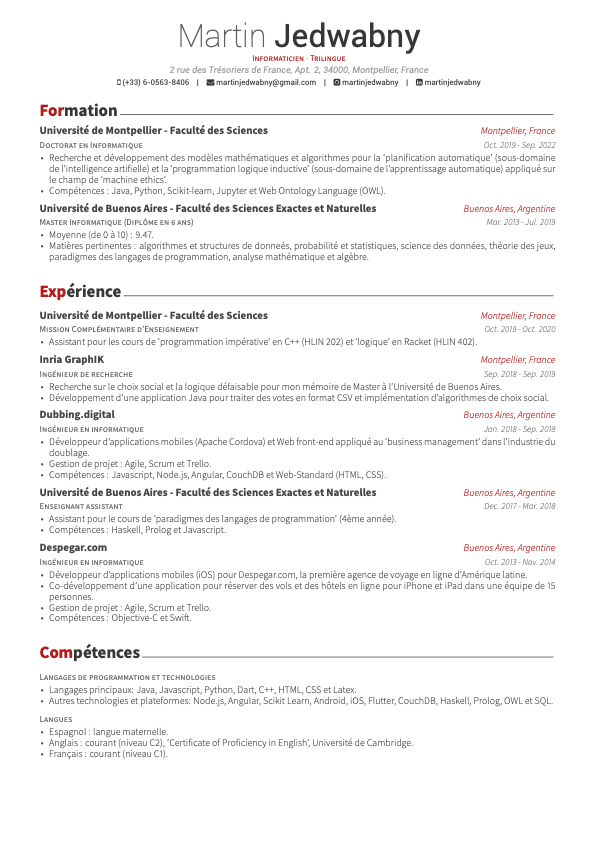
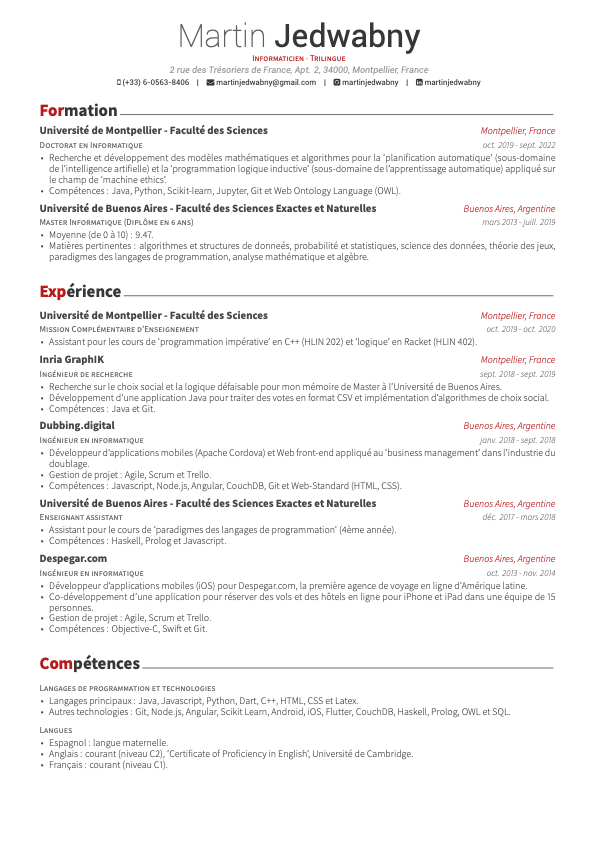
French v3

diff --git a/french/src/cv/work.tex b/french/src/cv/work.tex
@@ -13,7 +13,7 @@
 {Mission Complémentaire d'Enseignement} % Job title
 {Université de Montpellier - Faculté des Sciences} % Organization
 {Montpellier, France} % Location
-{Oct. 2019 - Oct. 2020} % Date(s)
+{oct. 2019 - oct. 2020} % Date(s)
 {
   \begin{cvitems} % Description(s) of tasks/responsibilities
     \item Assistant pour les cours de `programmation imp\'erative' en C++ (HLIN 202) et `logique' en Racket (HLIN 402).
@@ -25,11 +25,12 @@
 {Ingénieur de recherche}
 {Inria GraphIK}
 {Montpellier, France}
-{Sep. 2018 - Sep. 2019}
+{sept. 2018 - sept. 2019}
 {
 \begin{cvitems}
 \item Recherche sur le choix social et la logique défaisable pour mon mémoire de Master à l'Université de Buenos Aires.
 \item Développement d'une application Java pour traiter des votes en format CSV et implémentation d'algorithmes de choix social.
+\item Compétences : Java et Git.
 % \item Directors : Madalina Croitoru and Pierre Bisquert.
 \end{cvitems}
 }  
@@ -39,12 +40,12 @@
 {Ingénieur en informatique}
 {Dubbing.digital}
 {Buenos Aires, Argentine}
-{Jan. 2018 - Sep. 2018}
+{janv. 2018 - sept. 2018}
 {
 \begin{cvitems}
 \item Développeur d'applications mobiles (Apache Cordova) et Web front-end appliqué au `business management' dans l'industrie du doublage. 
 \item Gestion de projet : Agile, Scrum et Trello.
-\item Compétences : Javascript, Node.js, Angular, CouchDB et Web-Standard (HTML, CSS).
+\item Compétences : Javascript, Node.js, Angular, CouchDB, Git et Web-Standard (HTML, CSS).
 \end{cvitems}
 } 
 %---------------------------------------------------------
@@ -53,7 +54,7 @@
 {Enseignant assistant} % Job title
 {Université de Buenos Aires - Faculté des Sciences Exactes et Naturelles} % Organization
 {Buenos Aires, Argentine} % Location
-{Dec. 2017 - Mar. 2018} % Date(s)
+{déc. 2017 - mars 2018} % Date(s)
 {
   \begin{cvitems} % Description(s) of tasks/responsibilities
     \item Assistant pour le cours de `paradigmes des langages de programmation' (4ème année). 
@@ -67,13 +68,13 @@
 {Ingénieur en informatique}
 {Despegar.com}
 {Buenos Aires, Argentine}
-{Oct. 2013 - Nov. 2014}
+{oct. 2013 - nov. 2014}
 {
 \begin{cvitems}
 \item Développeur d'applications mobiles (iOS) pour Despegar.com, la première agence de voyage en ligne d'Amérique latine.
 \item Co-développement d'une application pour réserver des vols et des hôtels en ligne pour iPhone et iPad dans une équipe de 15 personnes. 
 \item Gestion de projet : Agile, Scrum et Trello.
-\item Compétences : Objective-C et Swift.
+\item Compétences : Objective-C, Swift et Git.
 \end{cvitems}
 } 
 %---------------------------------------------------------

diff --git a/french/src/cv/education.tex b/french/src/cv/education.tex
@@ -13,11 +13,11 @@
     {Doctorat en Informatique}
     {Université de Montpellier - Faculté des Sciences}
     {Montpellier, France}
-    {Oct. 2019 - Sep. 2022}
+    {oct. 2019 - sept. 2022}
     {
       \begin{cvitems}
         \item Recherche et développement des modèles mathématiques et algorithmes pour la `planification automatique' (sous-domaine de l'intelligence artifielle) et la `programmation logique inductive' (sous-domaine de l'apprentissage automatique) appliqué sur le champ de `machine ethics'.
-        \item Compétences : Java, Python, Scikit-learn, Jupyter et Web Ontology Language (OWL).
+        \item Compétences : Java, Python, Scikit-learn, Jupyter, Git et Web Ontology Language (OWL).
         % \item Directeurs de thèse : Madalina Croitoru et Pierre Bisquert. 
       \end{cvitems}
     }  
@@ -26,7 +26,7 @@
   {Master Informatique (Diplôme en 6 ans)}
   {Université de Buenos Aires - Faculté des Sciences Exactes et Naturelles}
   {Buenos Aires, Argentine}
-  {Mar. 2013 - Jul. 2019}
+  {mars 2013 - juill. 2019}
   {
     \begin{cvitems}
       \item Moyenne (de 0 à 10) : 9.47.

diff --git a/french/src/cv/skills.tex b/french/src/cv/skills.tex
@@ -17,8 +17,8 @@
 {} % Date(s)
 {
   \begin{cvitems} % Description(s) of tasks/responsibilities
-    \item Langages principaux: Java, Javascript, Python, Dart, C++, HTML, CSS et Latex.
-    \item Autres technologies et plateformes: Node.js, Angular, Scikit Learn, Android, iOS, Flutter, CouchDB, Haskell, Prolog, OWL et SQL.
+    \item Langages principaux : Java, Javascript, Python, Dart, C++, HTML, CSS et Latex.
+    \item Autres technologies : Git, Node.js, Angular, Scikit Learn, Android, iOS, Flutter, CouchDB, Haskell, Prolog, OWL et SQL.
   \end{cvitems}
 }
 %---------------------------------------------------------
